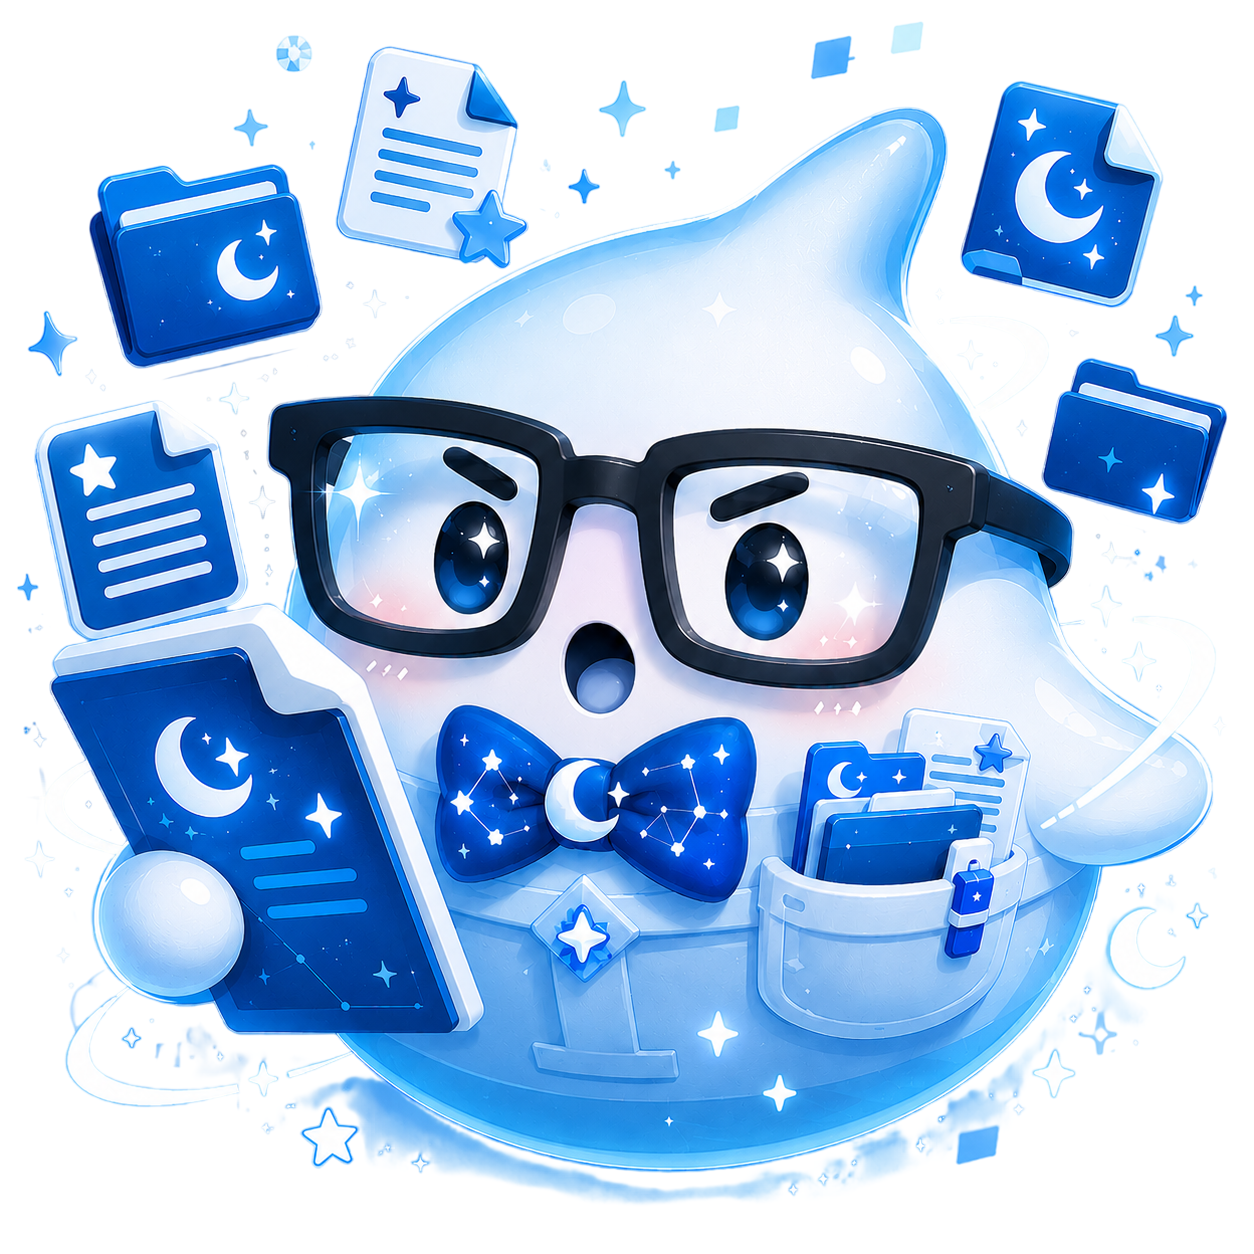
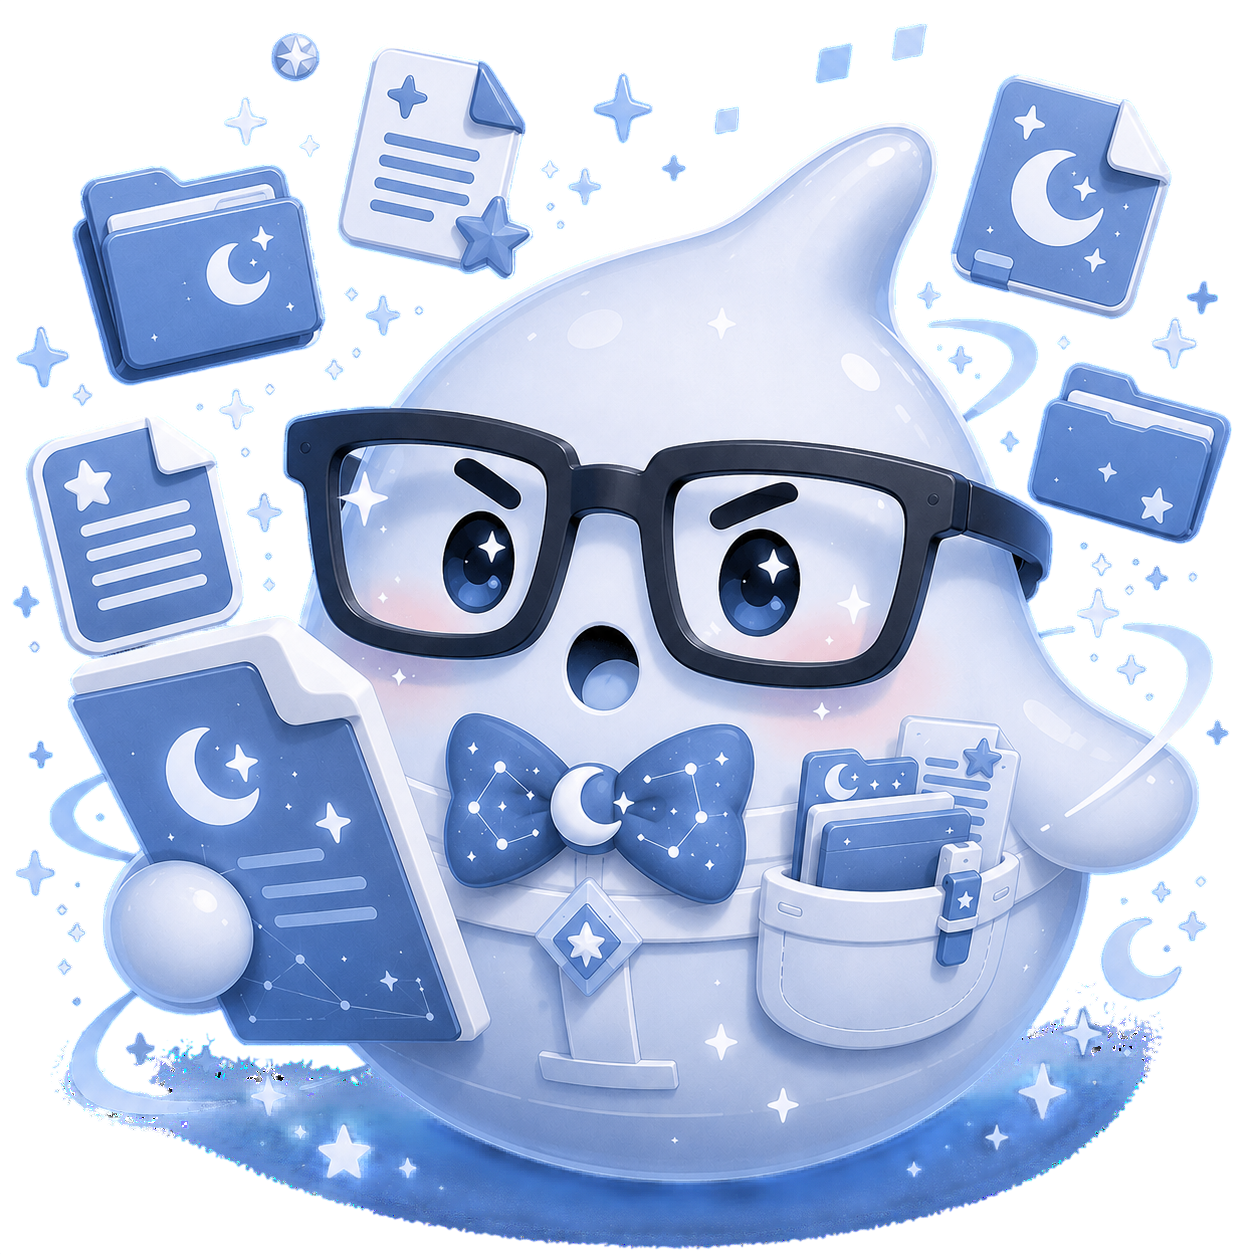
fix: INSS único campo + Uniko.png atualizado
- Remuneração no Dashboard: um único campo 'Desconto INSS (R$)' (key: inss)
  — sem separação por salário/1K Service, admin gerencia o total
- TabFinanceiro: cálculo limpo = salary + salary_1k - inss
- TabInicio: salário líquido idem (sem ir)
- public/Uniko.png: imagem atualizada com maior qualidade

diff --git a/src/modules/central-colaborador/tabs/TabFinanceiro.jsx b/src/modules/central-colaborador/tabs/TabFinanceiro.jsx
@@ -19,12 +19,11 @@ const TabFinanceiro = () => {
   const [eventosOpen, setEventosOpen] = useState(true);
   const [salVisible, setSalVisible] = useState(false);
 
-  /* cálculos: Salário Bruto + 1K Service - (INSS + IR) = Líquido */
+  /* cálculos: Salário Bruto + 1K Service - INSS = Líquido */
   const gross1k        = USER.salary_1k || 0;
   const inss           = USER.inss      || 0;
-  const ir             = USER.ir        || 0;   // desconto adicional (ex: INSS 1K)
   const totalBruto     = USER.salary + gross1k;
-  const totalDescontos = inss + ir;
+  const totalDescontos = inss;
   const liquido        = totalBruto - totalDescontos;
 
   useEffect(() => {
@@ -179,24 +178,13 @@ const TabFinanceiro = () => {
 
           {eventosOpen && (
             <div style={{ borderTop:'1px solid rgba(192,64,80,0.15)', padding:'4px 0 8px' }}>
-              {inss > 0 && (
-                <div style={{ display:'flex', justifyContent:'space-between', alignItems:'center',
-                  padding:'10px 22px' }}>
-                  <span style={{ fontSize:13, color:T.textS }}>INSS — Salário</span>
-                  <span style={{ fontSize:13, fontWeight:600, color:'#C04050' }}>
-                    {salVisible ? `- R$ ${BRL(inss)}` : '- R$ ••••,••'}
-                  </span>
-                </div>
-              )}
-              {ir > 0 && (
-                <div style={{ display:'flex', justifyContent:'space-between', alignItems:'center',
-                  padding:'10px 22px' }}>
-                  <span style={{ fontSize:13, color:T.textS }}>INSS — 1K Service</span>
-                  <span style={{ fontSize:13, fontWeight:600, color:'#C04050' }}>
-                    {salVisible ? `- R$ ${BRL(ir)}` : '- R$ ••••,••'}
-                  </span>
-                </div>
-              )}
+              <div style={{ display:'flex', justifyContent:'space-between', alignItems:'center',
+                padding:'10px 22px' }}>
+                <span style={{ fontSize:13, color:T.textS }}>INSS</span>
+                <span style={{ fontSize:13, fontWeight:600, color:'#C04050' }}>
+                  {salVisible ? `- R$ ${BRL(inss)}` : '- R$ ••••,••'}
+                </span>
+              </div>
               <div style={{ display:'flex', justifyContent:'space-between', alignItems:'center',
                 padding:'10px 22px', borderTop:'1px solid rgba(192,64,80,0.14)', marginTop:2 }}>
                 <span style={{ fontSize:12, color:'#C04050', fontWeight:700, letterSpacing:'.04em',

diff --git a/src/modules/central-colaborador/tabs/TabInicio.jsx b/src/modules/central-colaborador/tabs/TabInicio.jsx
@@ -273,7 +273,7 @@ const TabInicio = ({ setTab, onGoAlexa, activeTheme = 'blue' }) => {
             <div style={{width:38,height:38,borderRadius:10,flexShrink:0,background:'rgba(40,168,112,.10)',border:'1px solid rgba(40,168,112,.2)',display:'flex',alignItems:'center',justifyContent:'center',color:'#28A870',fontWeight:700,fontSize:16}}>$</div>
             <div style={{flex:1,minWidth:0}}>
               <div style={{fontSize:11,color:T.textT}}>Salário Líquido</div>
-              <div style={{fontSize:17,fontWeight:700,color:T.text,marginTop:2}}>{sv?`R$ ${((USER.salary||0)+(USER.salary_1k||0)-(USER.inss||0)-(USER.ir||0)).toLocaleString('pt-BR',{minimumFractionDigits:2})}`:'R$ ••••,••'}</div>
+              <div style={{fontSize:17,fontWeight:700,color:T.text,marginTop:2}}>{sv?`R$ ${((USER.salary||0)+(USER.salary_1k||0)-(USER.inss||0)).toLocaleString('pt-BR',{minimumFractionDigits:2})}`:'R$ ••••,••'}</div>
             </div>
             <button onClick={()=>setSv(!sv)} style={{background:'none',border:'none',cursor:'pointer',color:sv?T.gold:T.textD,padding:3,flexShrink:0}}>
               <svg width="14" height="14" viewBox="0 0 24 24" fill="none" stroke="currentColor" strokeWidth="1.7" strokeLinecap="round">

diff --git a/src/modules/dashboard-rh/index.jsx b/src/modules/dashboard-rh/index.jsx
@@ -794,8 +794,7 @@ const DashboardRH = ({onBack, adminName='Administrador'}) => {
                         {label:'Salário Base (R$)',key:'salary',type:'number'},
                         {label:'1K Service (R$)',key:'vt',type:'number'},
                         {label:'Motivo do reajuste (ex: Promoção)',key:'salary_event',type:'text',placeholder:'Ex: Reajuste anual, Promoção...'},
-                        {label:'Desconto INSS — Salário (R$)',key:'inss',type:'number'},
-                        {label:'Desconto INSS — 1K Service (R$)',key:'ir',type:'number'},
+                        {label:'Desconto INSS (R$)',key:'inss',type:'number'},
                       ]},
                     ].map(sec=>(
                       <div key={sec.title} style={{marginBottom:20}}>
